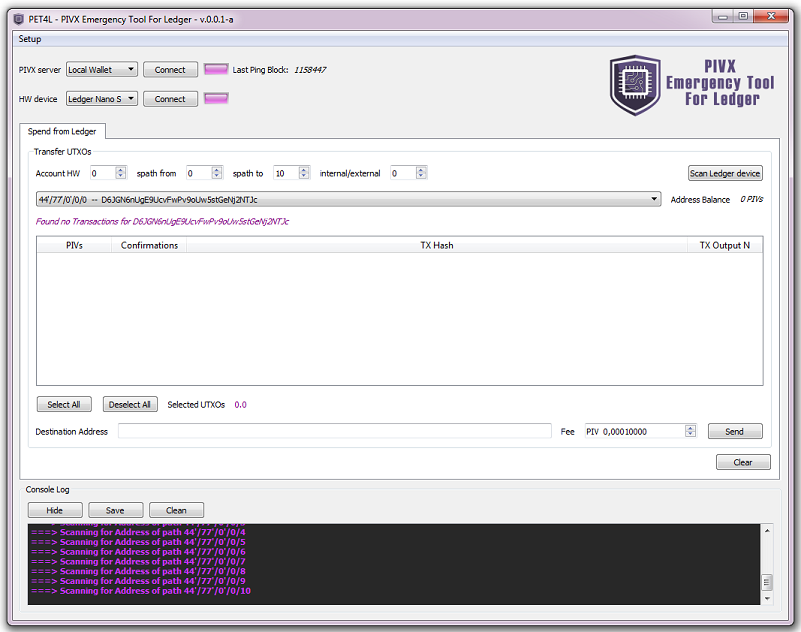
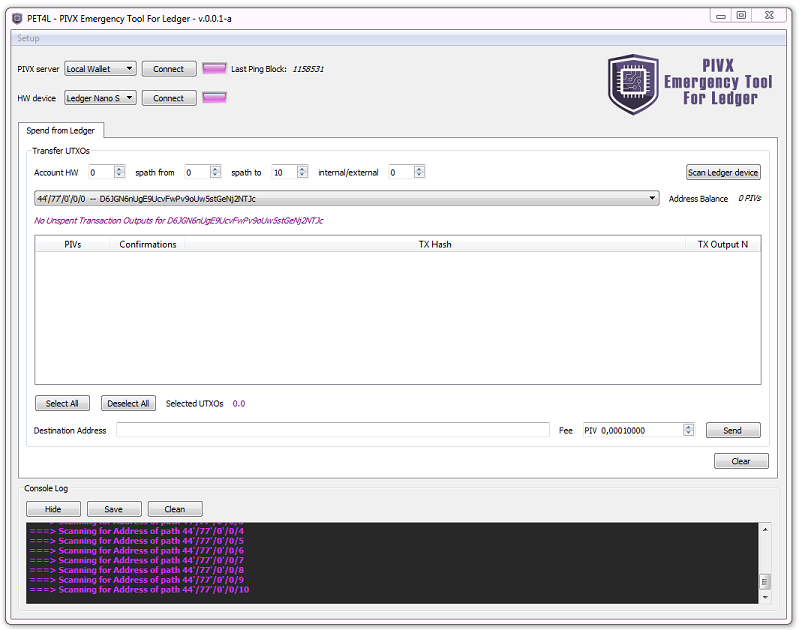
minor

diff --git a/src/tabRewards.py b/src/tabRewards.py
@@ -71,7 +71,7 @@ class TabRewards():
                         self.ui.rewardsList.statusLabel.setText('<b style="color:purple">PIVX wallet not connected</b>')
                     else:
                         if self.apiConnected:
-                            self.ui.rewardsList.statusLabel.setText('<em style="color:purple">Found no Transactions for %s</em>' % self.curr_addr)
+                            self.ui.rewardsList.statusLabel.setText('<em style="color:purple">No Unspent Transaction Outputs for %s</em>' % self.curr_addr)
                         else:
                             self.ui.rewardsList.statusLabel.setText('<b style="color:red">Unable to connect to API provider</b>')
                     self.ui.rewardsList.statusLabel.setVisible(True)
